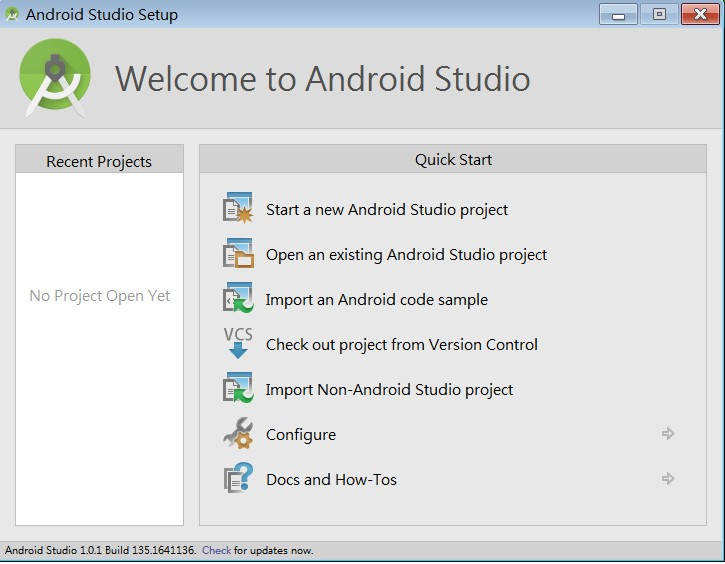
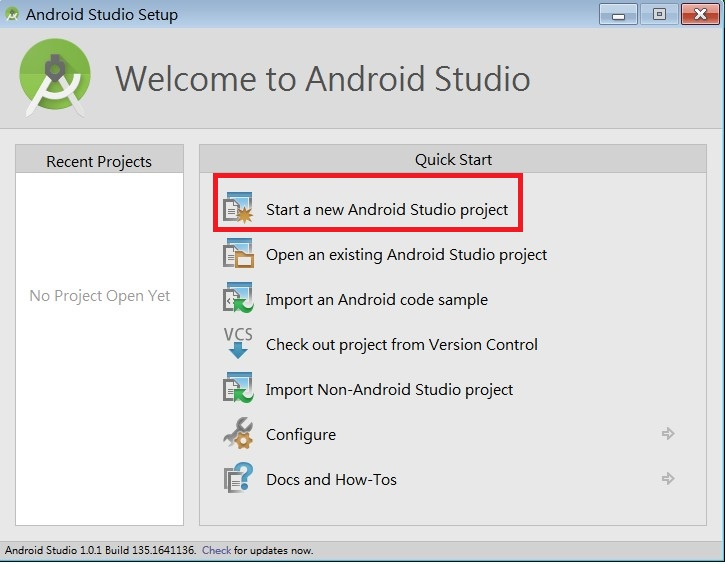
add

Changed region(s): [[0.2731, 0.3014, 0.7283, 0.422]]

diff --git a/doc/00002. 建立第一個APP.md b/doc/00002. 建立第一個APP.md
@@ -4,9 +4,55 @@
 <br />
 <br />
 <br />
-
-
-
+#點擊桌面Android Studio圖示，開啟編輯程式
+![](https://raw.githubusercontent.com/tw-hkt/AndroidTutorial/master/img/img0023.jpg)
+<br />
+<br />
+<br />
+![](https://raw.githubusercontent.com/tw-hkt/AndroidTutorial/master/img/img0009.jpg)
+<br />
+<br />
+<br />
+![](https://raw.githubusercontent.com/tw-hkt/AndroidTutorial/master/img/img0011.jpg)
+<br />
+<br />
+<br />
+![](https://raw.githubusercontent.com/tw-hkt/AndroidTutorial/master/img/img0012.jpg)
+<br />
+<br />
+<br />
+![](https://raw.githubusercontent.com/tw-hkt/AndroidTutorial/master/img/img0013.jpg)
+<br />
+<br />
+<br />
+![](https://raw.githubusercontent.com/tw-hkt/AndroidTutorial/master/img/img001.jpg)
+<br />
+<br />
+<br />
+![](https://raw.githubusercontent.com/tw-hkt/AndroidTutorial/master/img/img0014.jpg)
+<br />
+<br />
+<br />
+![](https://raw.githubusercontent.com/tw-hkt/AndroidTutorial/master/img/img0015.jpg)
+<br />
+<br />
+<br />
+![](https://raw.githubusercontent.com/tw-hkt/AndroidTutorial/master/img/img0016.jpg)
+<br />
+<br />
+<br />
+![](https://raw.githubusercontent.com/tw-hkt/AndroidTutorial/master/img/img0017.jpg)
+<br />
+<br />
+<br />
+![](https://raw.githubusercontent.com/tw-hkt/AndroidTutorial/master/img/img0018.jpg)
+<br />
+<br />
+<br />
+![](https://raw.githubusercontent.com/tw-hkt/AndroidTutorial/master/img/img0019.jpg)
+<br />
+<br />
+<br />
 * * *
 ### 參考資料
 1.Android Developer : [Android Studio Overview](http://developer.android.com/tools/studio/index.html)
